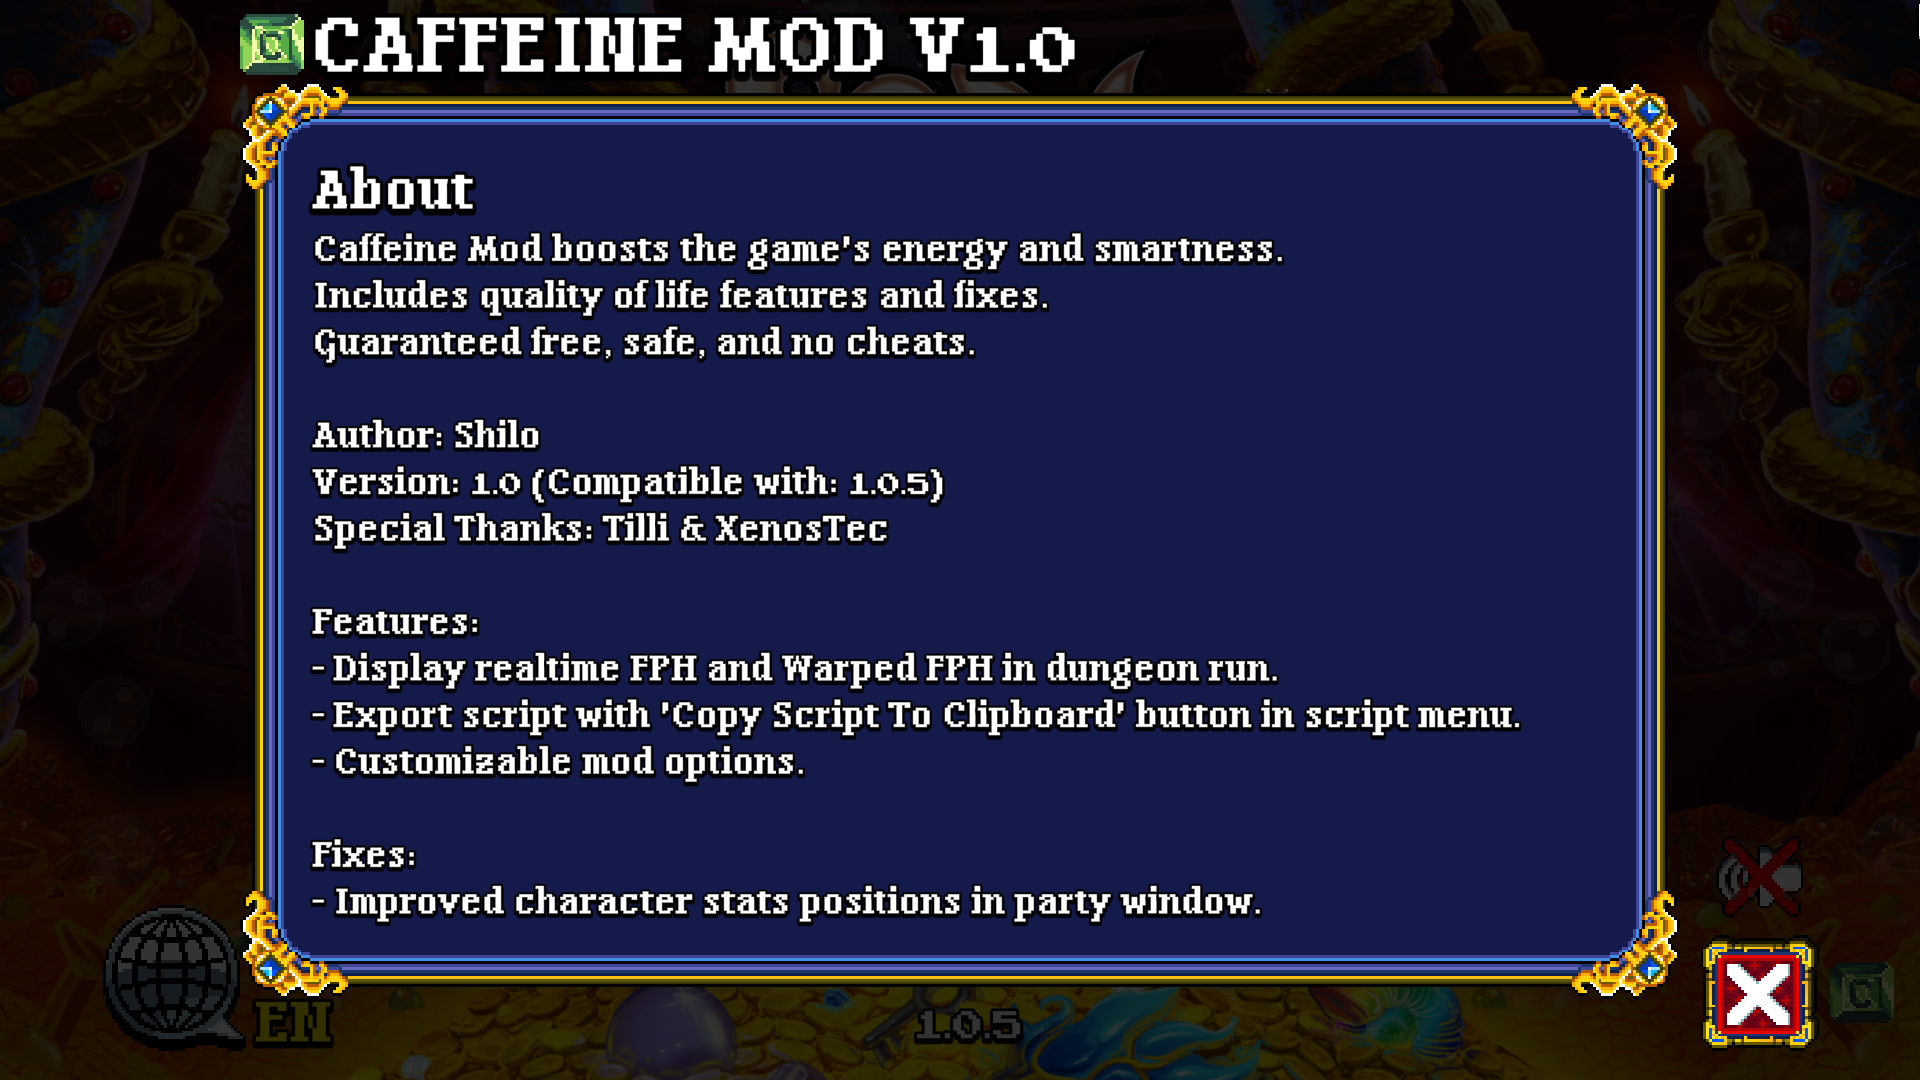
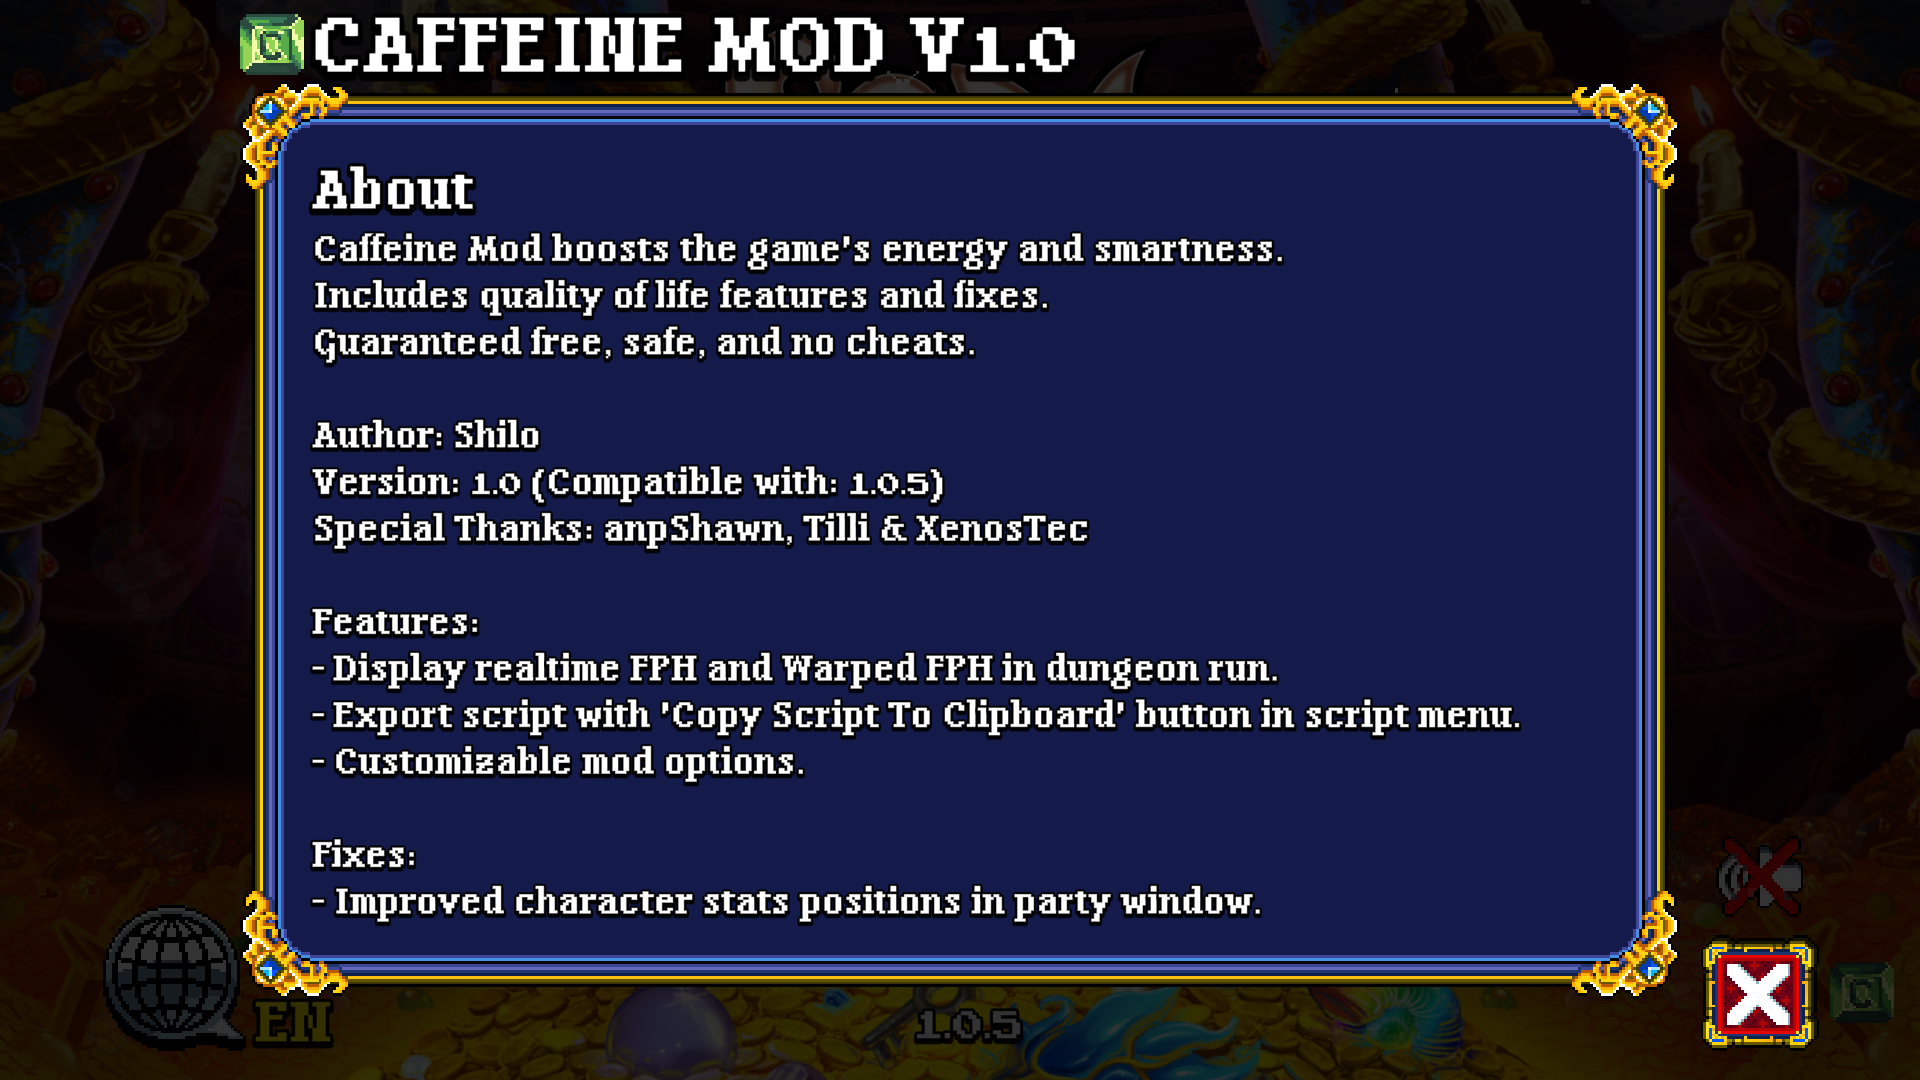
Update README.

diff --git a/README.md b/README.md
@@ -11,6 +11,7 @@ Guaranteed free, safe, and no cheats.
 All code and rights belong to their respective owners: AN Productions, Poxpower, Armor Games Studios or other.  
 I take no credit for any of the original code and assets.  
 Use this mods at your own risk: I am not responsible for any results of using this mod.  
+The terms "safe" and "cheats" are subjective.   
 By using this mod, you agree to the above terms.
 
 ## Download
@@ -28,3 +29,8 @@ Coming soon...
 
 ### Fixes
 - Improved character stats positions in party window.
+
+## Special Thanks
+- anpShawn
+- Tilli
+- XenosTec
